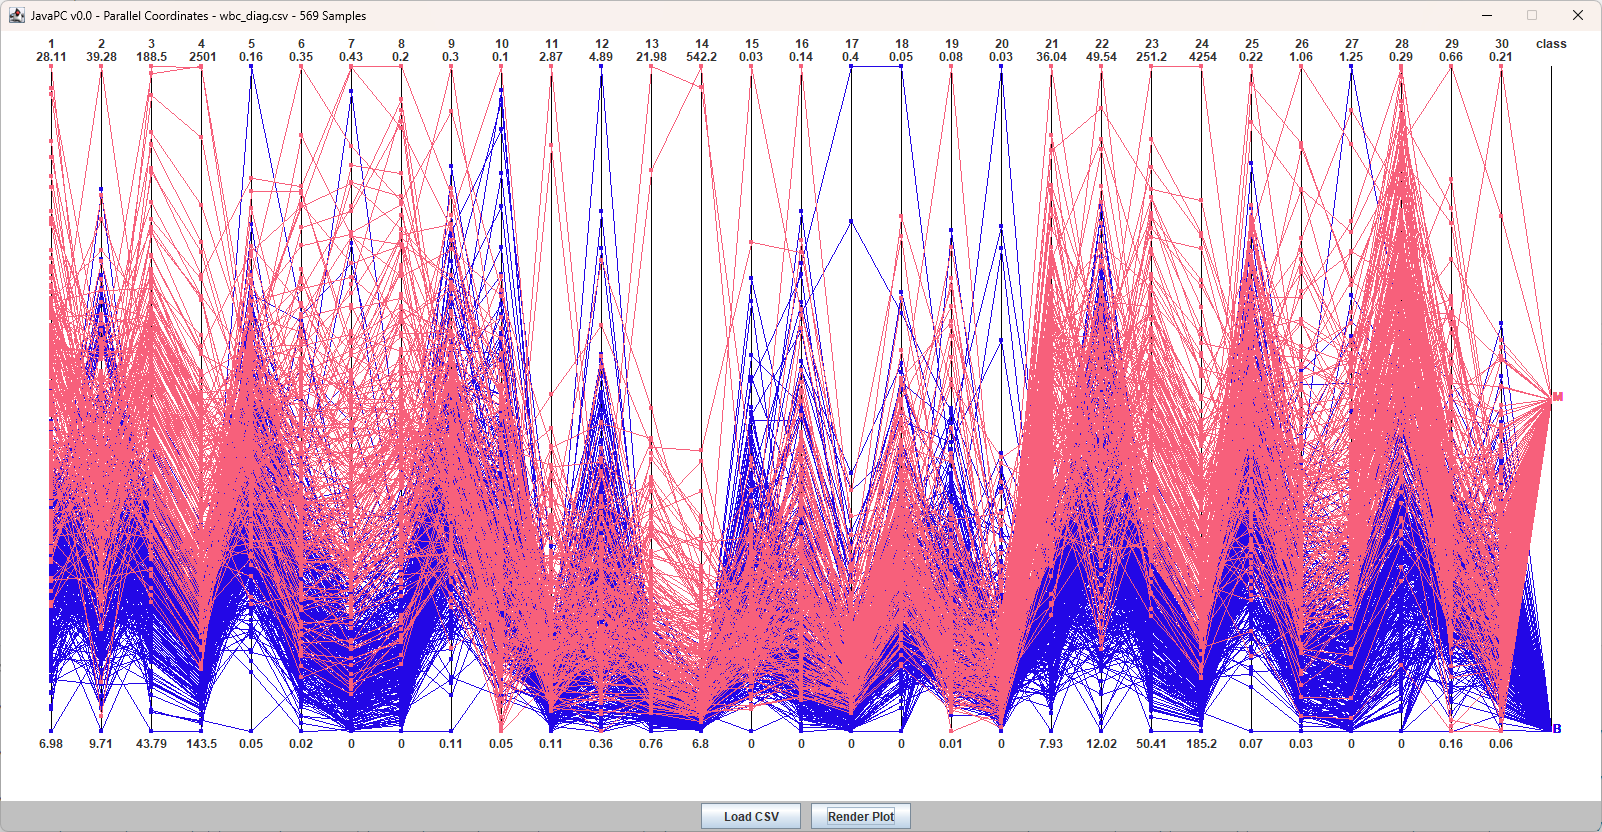
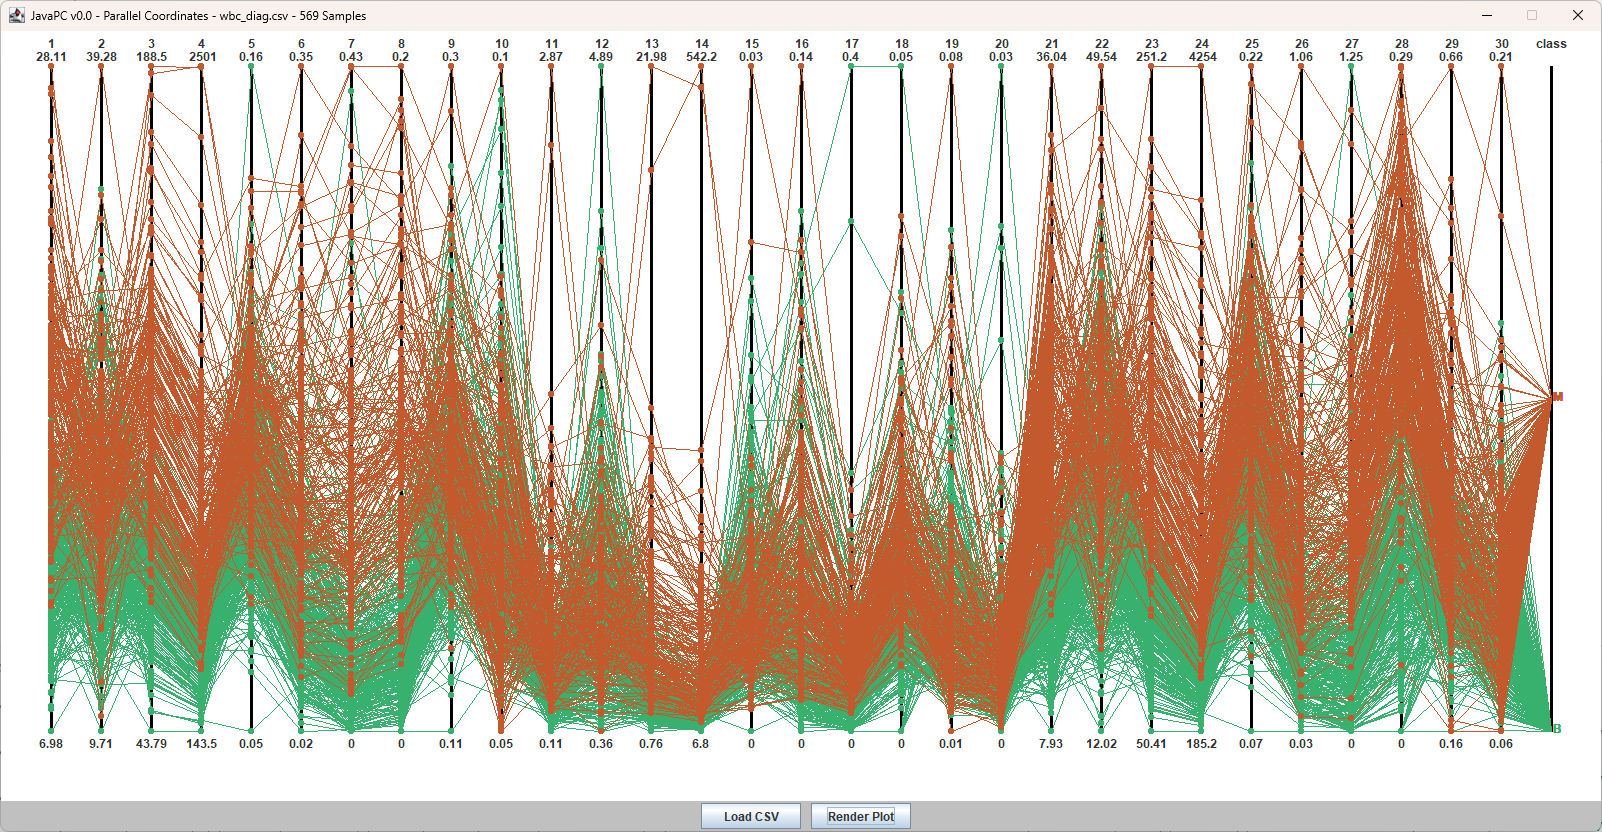
Axis & pnt width

diff --git a/javaPC/PlotPanel.java b/javaPC/PlotPanel.java
@@ -94,7 +94,9 @@ public class PlotPanel extends JPanel {
         // draw axis lines
         for (int i = 1; i <= axisCount; i++) {
             int x = lineSpacing * i;
+            g.drawLine(x-1, 35, x-1, panelHeight - margin);
             g.drawLine(x, 35, x, panelHeight - margin);
+            g.drawLine(x+1, 35, x+1, panelHeight - margin);
         }
         
         HashMap<String, Integer> classNums = new HashMap<>();
@@ -111,7 +113,7 @@ public class PlotPanel extends JPanel {
                     Float nextDataPnt = Float.parseFloat(data[j][i]);
                     int nextPos = Math.round((panelHeight + 35 - margin - margin) * ((nextDataPnt - mins[i]) / (maxes[i] - mins[i])) + margin);
                     // draw n datapoint
-                    g.fillOval(x - 3, panelHeight - pos - 3, 5, 5);
+                    g.fillOval(x - 4, panelHeight - pos - 4, 7, 7);
                     // connect n to n+1 datapoints with an edge
                     g.drawLine(x, panelHeight - pos, lineSpacing * (i + 1), panelHeight - nextPos);
                 } else if (i == axisCount - 1){
@@ -119,7 +121,7 @@ public class PlotPanel extends JPanel {
                     
                     if (classNums.containsKey(className)) {
                         int nextDataPnt = (panelHeight + 35 - margin - margin) * classNums.get(className) / colorMap.size() + margin;
-                        g.fillOval(x - 3, panelHeight - pos - 3, 5, 5);
+                        g.fillOval(x - 4, panelHeight - pos - 4, 7, 7);
                         g.drawLine(x, panelHeight - pos, lineSpacing * (i + 1), panelHeight - nextDataPnt);
                         JLabel label = new JLabel(className);
                         label.setForeground(colorMap.get(className));
